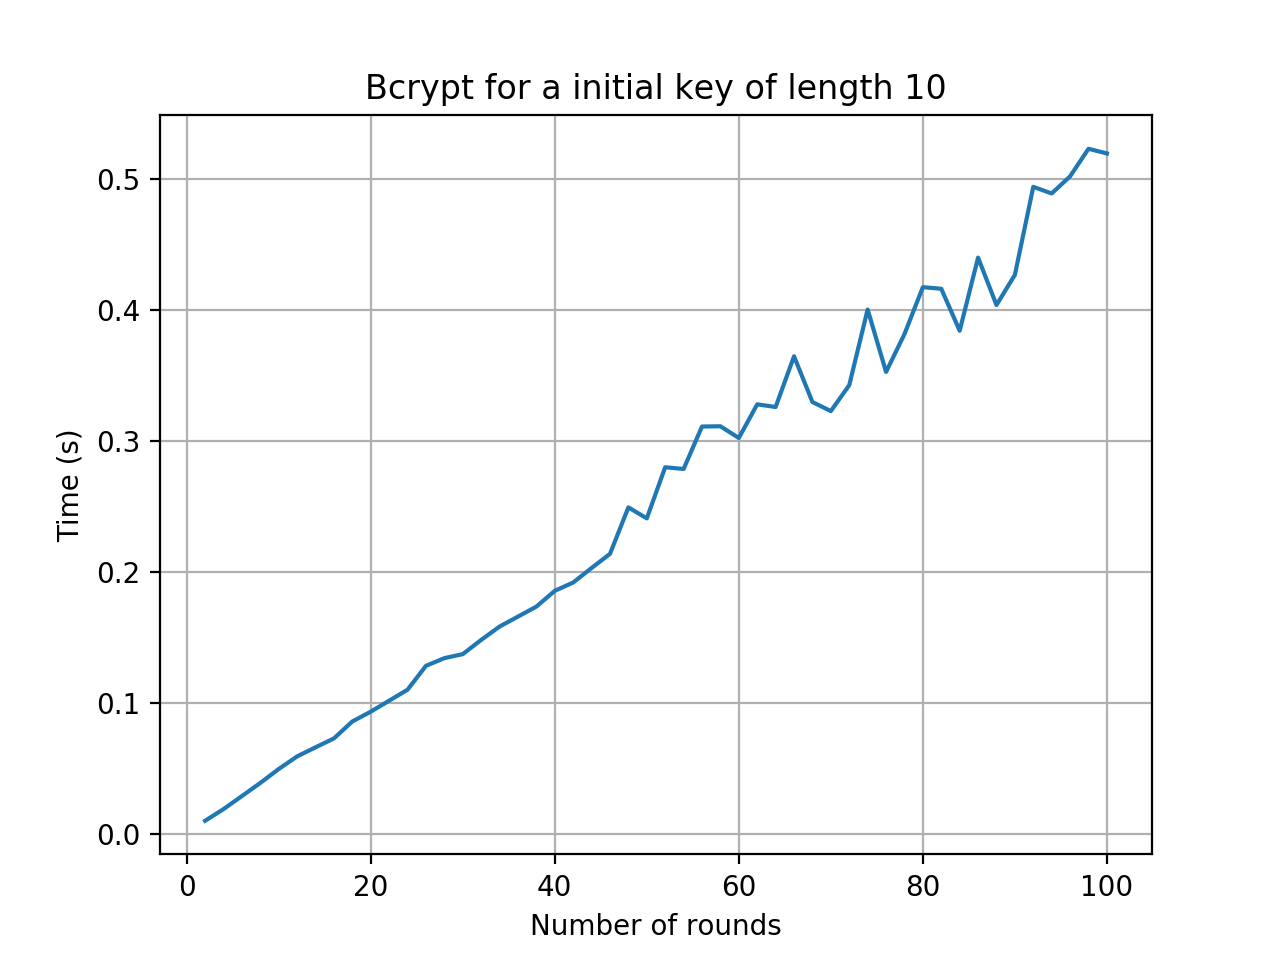
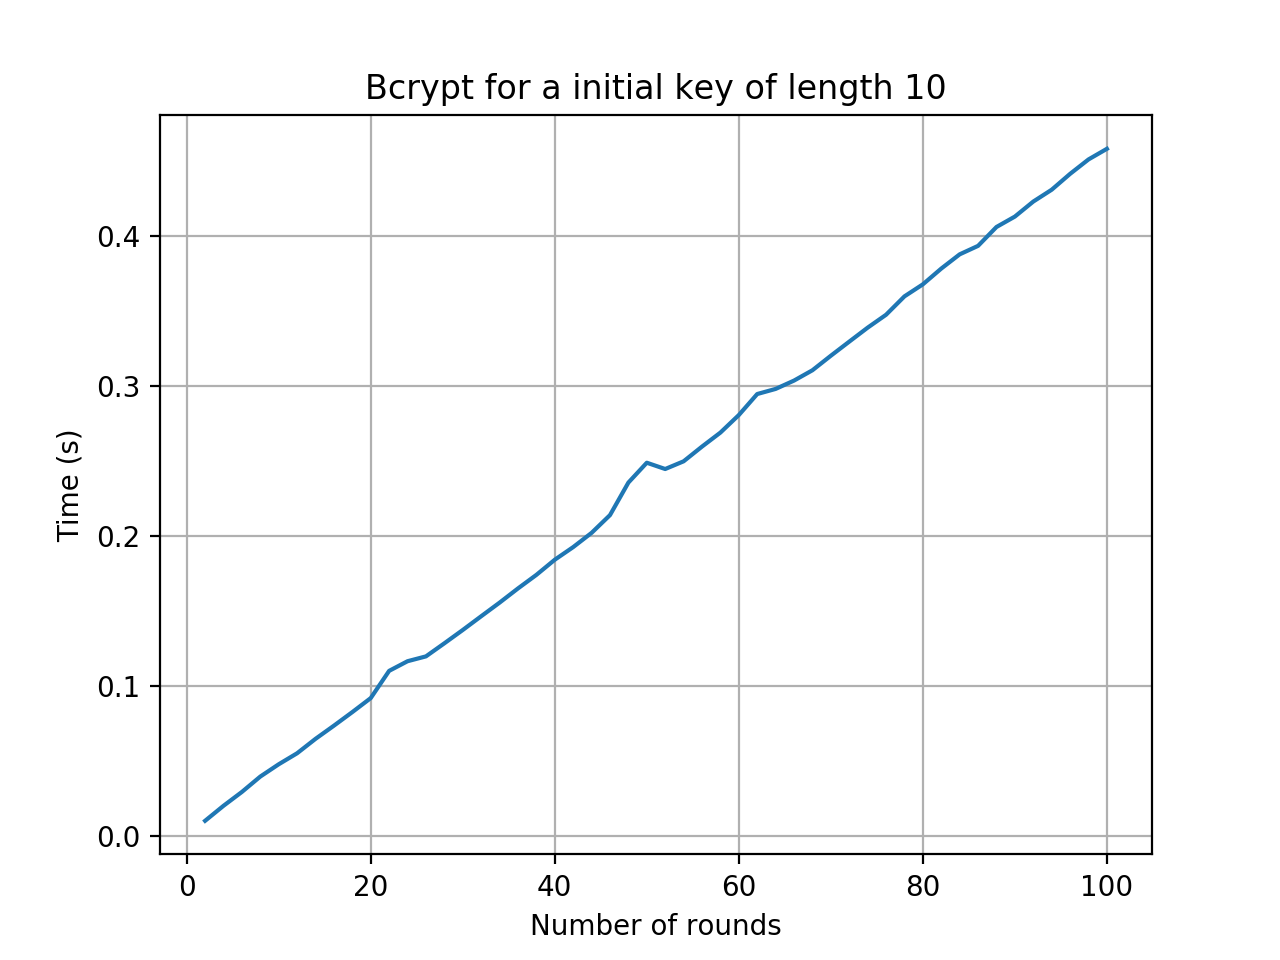
benchmark improvement

diff --git a/privacy_sharing/src/benchmark/kdf.py b/privacy_sharing/src/benchmark/kdf.py
@@ -75,14 +75,15 @@ def start(name='kdf'):
             # Write header
             pbRes.write('Length,Iterations,Time')
             bcryptRes.write('Length,Rounds,Time')
-            for val in values():
-                for i in range(1,51):
-                    time = timeit.timeit('kdf()', pbkdf2_setup(val, 10*i), number=5)/5
-                    pbRes.write('\n'+ str(len(val)) + ',' + str(10*i) + ',' + str(time))
-                    time = timeit.timeit('kdf()', bcrypt_setup(val, 2*i), number=5)/5
-                    bcryptRes.write('\n'+ str(len(val)) + ',' + str(2*i) + ',' + str(time))
-                    pbRes.flush()
-                    bcryptRes.flush()
+            val = 'aaaaaaaaaaaaaa'
+            for i in range(1,51):
+                print(i)
+                time = timeit.timeit('kdf()', pbkdf2_setup(val, 10*i), number=2000)/2000
+                pbRes.write('\n'+ str(len(val)) + ',' + str(10*i) + ',' + str(time))
+                time = timeit.timeit('kdf()', bcrypt_setup(val, 2*i), number=100)/100
+                bcryptRes.write('\n'+ str(len(val)) + ',' + str(2*i) + ',' + str(time))
+                pbRes.flush()
+                bcryptRes.flush()
 
 ########
 # Main #
